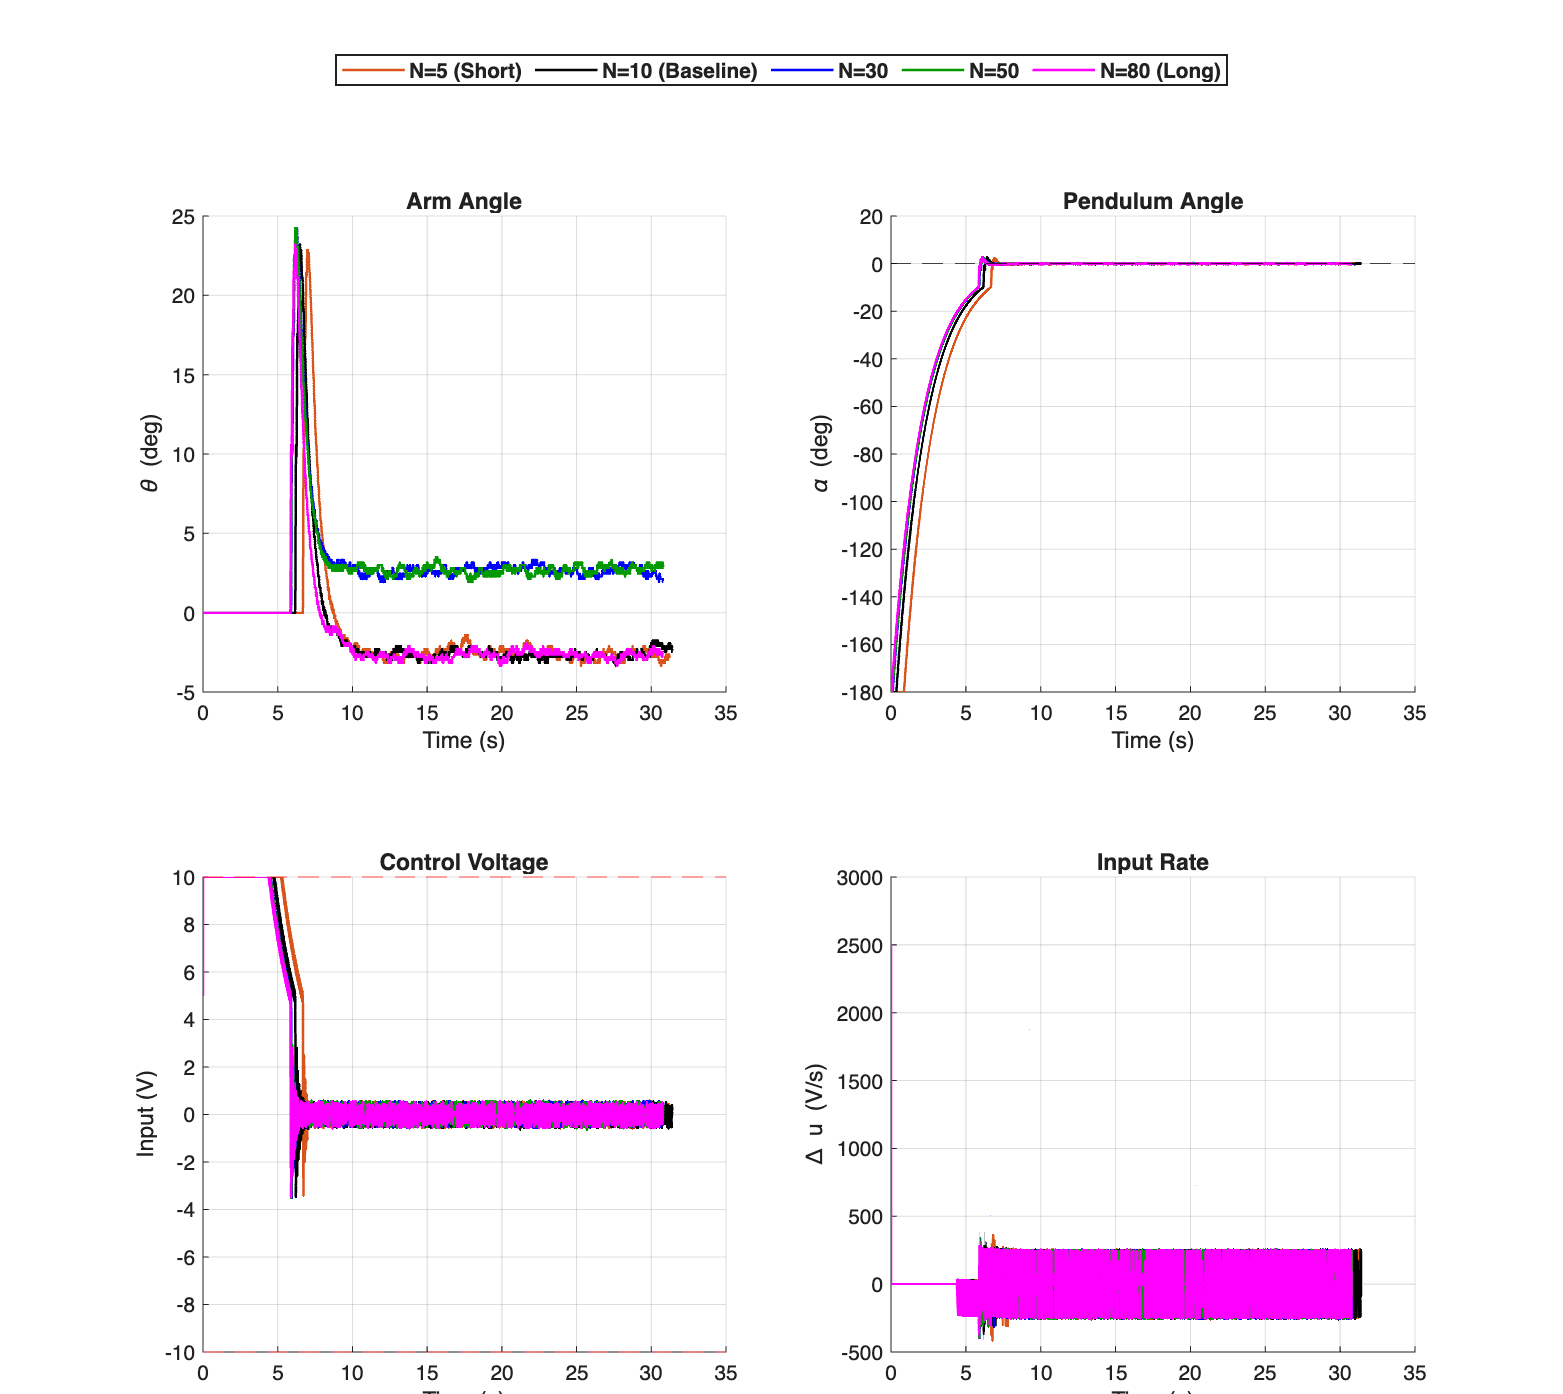
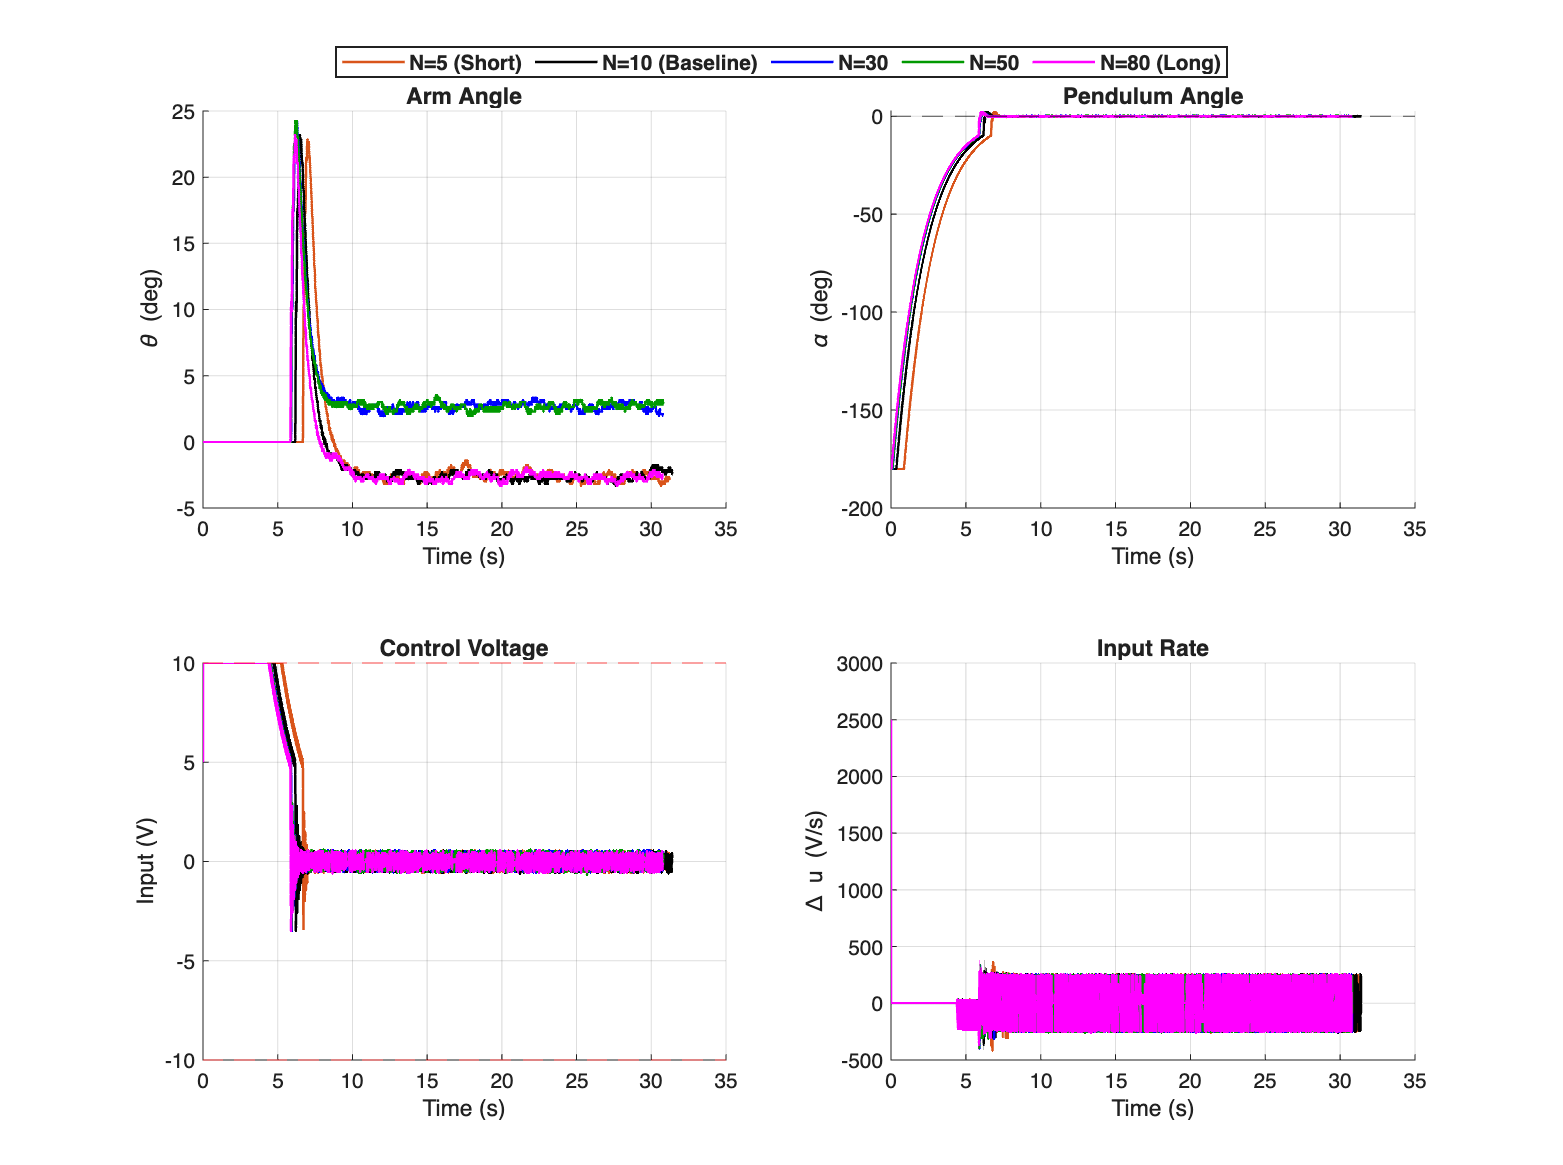
new plots and updated prediction horizon

diff --git a/plot_N_experiments.m b/plot_N_experiments.m
@@ -7,11 +7,11 @@ clear; clc; close all;
 % --- 1. Load Data ---
 % Define files and their display names/colors
 experiments = {
-    'N5.csv',       'N=5 (Short)',      [0.85, 0.33, 0.1]; % Burnt Orange
-    'Baseline.csv', 'N=10 (Baseline)',  'k';               % Black
-    'N30.csv',      'N=30',             'b';               % Blue
-    'N50.csv',      'N=50',             [0, 0.6, 0];       % Dark Green
-    'N80.csv',      'N=80 (Long)',      'm'                % Magenta
+    'experiment_csv/N5.csv',       'N=5 (Short)',      [0.85, 0.33, 0.1]; % Burnt Orange
+    'experiment_csv/Baseline.csv', 'N=10 (Baseline)',  'k';               % Black
+    'experiment_csv/N30.csv',      'N=30',             'b';               % Blue
+    'experiment_csv/N50.csv',      'N=50',             [0, 0.6, 0];       % Dark Green
+    'experiment_csv/N80.csv',      'N=80 (Long)',      'm'                % Magenta
 };
 
 data = containers.Map();
@@ -69,7 +69,7 @@ function create_horizon_figure(dataMap, expList)
     
     % --- Shift Grids Down for Legend Space ---
     axes_list = [ax1, ax2, ax3, ax4];
-    shift_down = 0.08;
+    shift_down = 0.02;
     for ax = axes_list
         pos = get(ax, 'Position');
         set(ax, 'Position', [pos(1), pos(2) - shift_down, pos(3), pos(4)]);

diff --git a/mpc_controller_new.m b/mpc_controller_new.m
@@ -64,9 +64,16 @@ if t == 0
     % since (x-xss) is 4x1, Q should be 4x4
     % Q = eye(4); %REPLACE W/ GAINS
     Q = [4 0 0 0;
-         0 3 0 0;
+         0 30 0 0;
          0 0 1 0;
          0 0 0 1];
+
+
+    % BASELINE VALUES
+    % Q = [4 0 0 0;
+    %      0 3 0 0;
+    %      0 0 1 0;
+    %      0 0 0 1];
         
     % R weights the input tracking err (u - uss)
     % since (u-uss) is 1x1, R should be scalar
